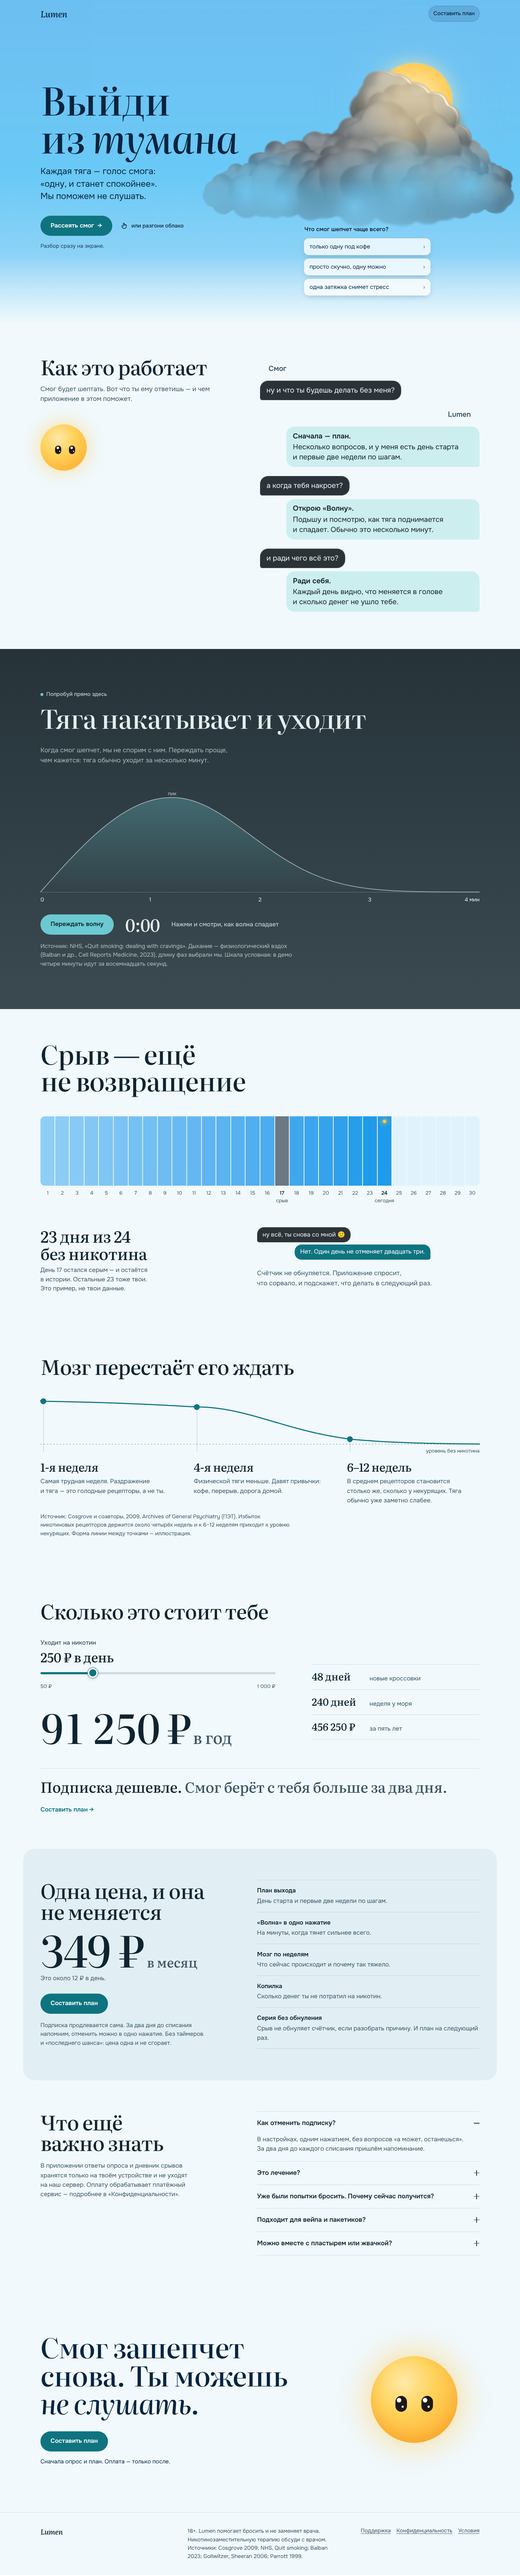
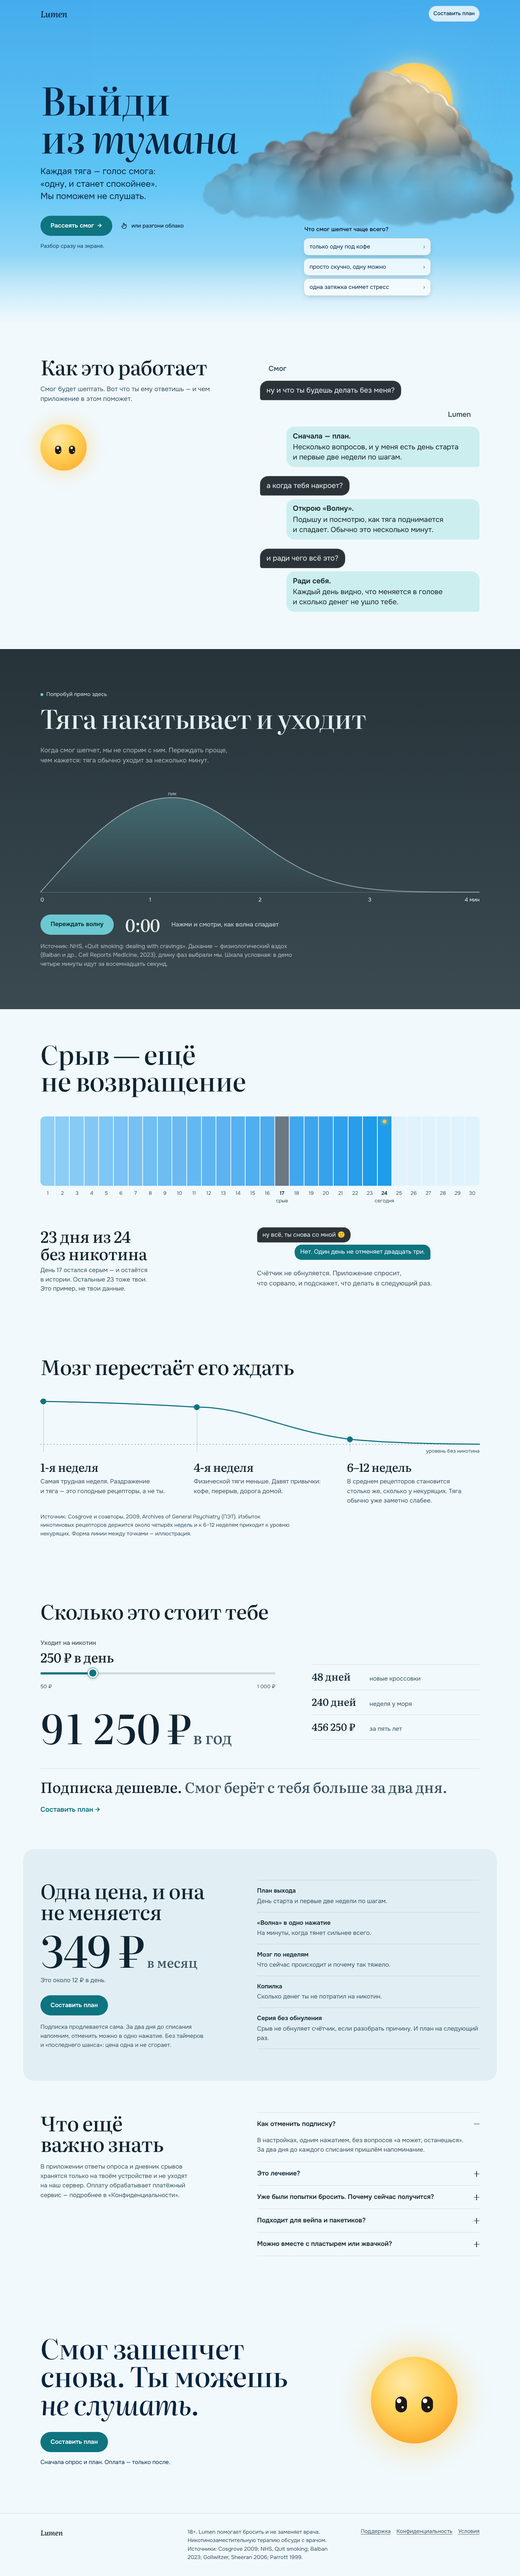
v9: header pill uses chip tokens, larger inline plan CTA
Claude-Session: https://claude.ai/code/session_01CKqe4UyzFgn5AFv8yWGEaJ

diff --git a/design/directions/v9.html b/design/directions/v9.html
@@ -116,7 +116,7 @@ main,footer{position:relative;z-index:1}
 
 header.top{position:absolute;inset:0 0 auto 0;z-index:3;padding-top:env(safe-area-inset-top)}
 header.top .wrap{display:flex;justify-content:space-between;align-items:center;height:4.75rem}
-.login{background:color-mix(in srgb,var(--ink) 12%,transparent);box-shadow:inset 0 0 0 1px color-mix(in srgb,var(--ink) 25%,transparent);display:inline-flex;align-items:center;min-height:2.75rem;padding-inline:.85rem;margin-right:0;color:var(--ink);font-weight:500;font-size:.9375rem;text-decoration:none;border-radius:999px;transition:background-color .15s ease}
+.login{background:var(--chip-bg);color:var(--chip-fg);box-shadow:inset 0 0 0 1px var(--chip-line);display:inline-flex;align-items:center;min-height:2.75rem;padding-inline:.85rem;margin-right:0;color:var(--ink);font-weight:500;font-size:.9375rem;text-decoration:none;border-radius:999px;transition:background-color .15s ease}
 
 .hero-inner{position:relative;z-index:2;min-height:100svh;display:grid;grid-template-columns:minmax(0,7fr) minmax(0,5fr);
   column-gap:3rem;padding-block:calc(6rem + env(safe-area-inset-top)) clamp(3.5rem,9vh,6rem);align-items:center;pointer-events:none}
@@ -311,7 +311,7 @@ input[type=range]:focus-visible::-moz-range-thumb{box-shadow:0 0 0 2px var(--sky
 @media (max-width:1100px){.year-row{grid-template-columns:minmax(0,1fr)}}
 .year-note{font-size:clamp(1.125rem,1.6vw,1.375rem);margin:.9rem 0 0;max-width:40rem;text-wrap:pretty}
 .bridge{margin-top:clamp(2.5rem,5vw,4rem);padding-top:1.5rem;border-top:1px solid var(--rule);font:500 clamp(1.375rem,2.1vw,1.75rem)/1.3 var(--f-display);letter-spacing:-.01em;max-width:36rem;text-wrap:pretty}
-.cta-inline{grid-column:1/-1;justify-self:start;margin-top:1rem;font-size:1.0625rem;font-weight:600;color:var(--act);min-height:2.75rem;cursor:pointer;background:none;border:0;padding:0}
+.cta-inline{grid-column:1/-1;justify-self:start;margin-top:1rem;font-size:1.1875rem;font-weight:600;color:var(--act);min-height:2.75rem;cursor:pointer;background:none;border:0;padding:0}
 .bridge em{font-style:normal;color:var(--muted)}
 @media (min-width:1101px){
   .money{display:grid;grid-template-columns:minmax(0,7fr) minmax(0,5fr);grid-template-areas:"h h" "c l" "y l" "b b";column-gap:clamp(3rem,7vw,7rem);align-items:start}
@@ -333,7 +333,7 @@ section[aria-labelledby="p-h"]{background:color-mix(in srgb,var(--act) 7%,transp
 .gets span{color:var(--muted)}
 .terms{color:var(--muted);font-size:1rem;margin-top:1.25rem;max-width:30rem}
 .price .btn{margin-top:1.75rem}
-.perday{margin-top:.6rem;color:var(--muted);font-size:1.0625rem}
+.perday{margin-top:.9rem;color:var(--muted);font-size:1.0625rem}
 .price .amount{font-size:clamp(4.5rem,9vw,7.5rem);margin-top:1rem}
 
 /* ── Вопросы ── */
